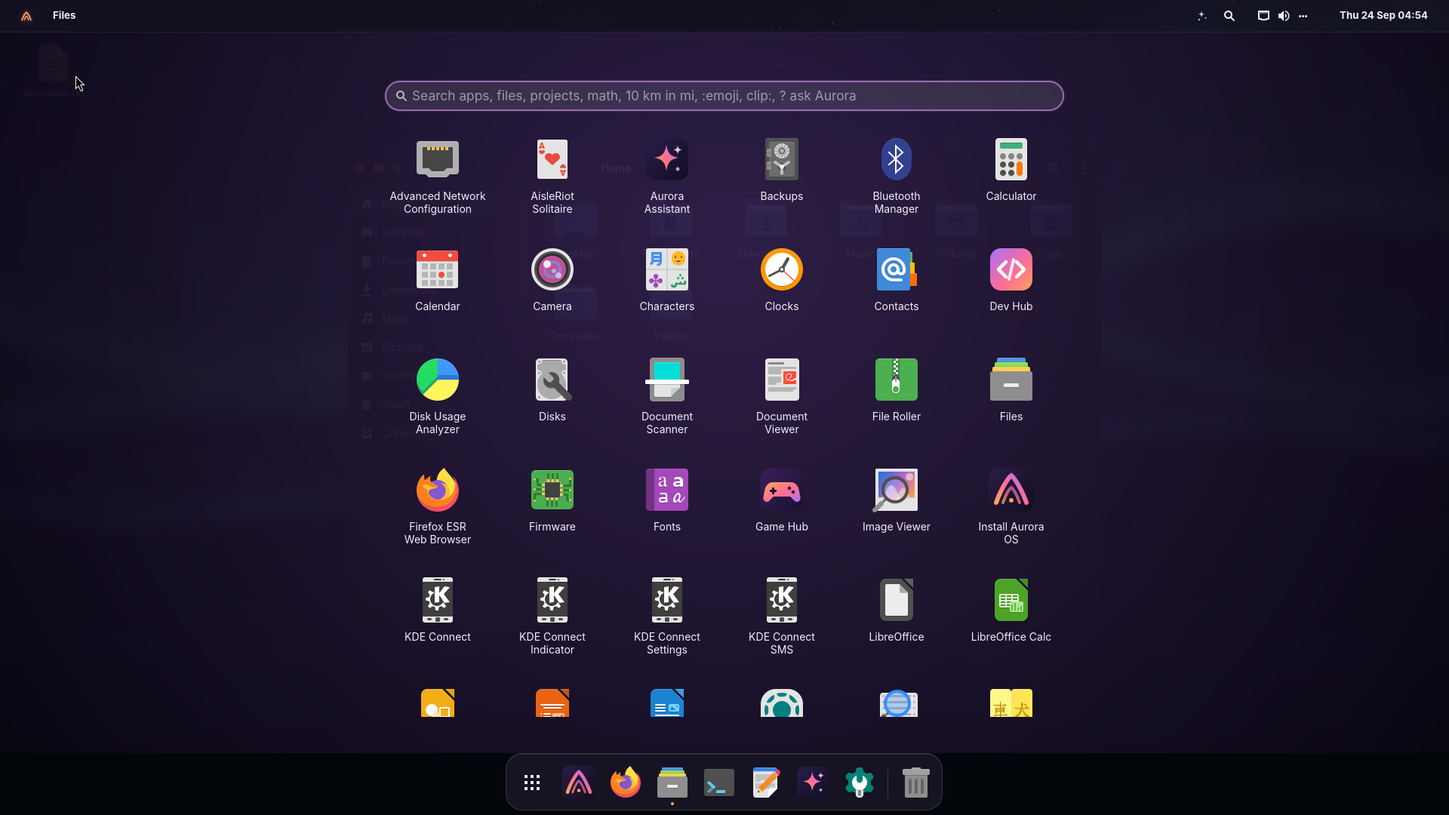
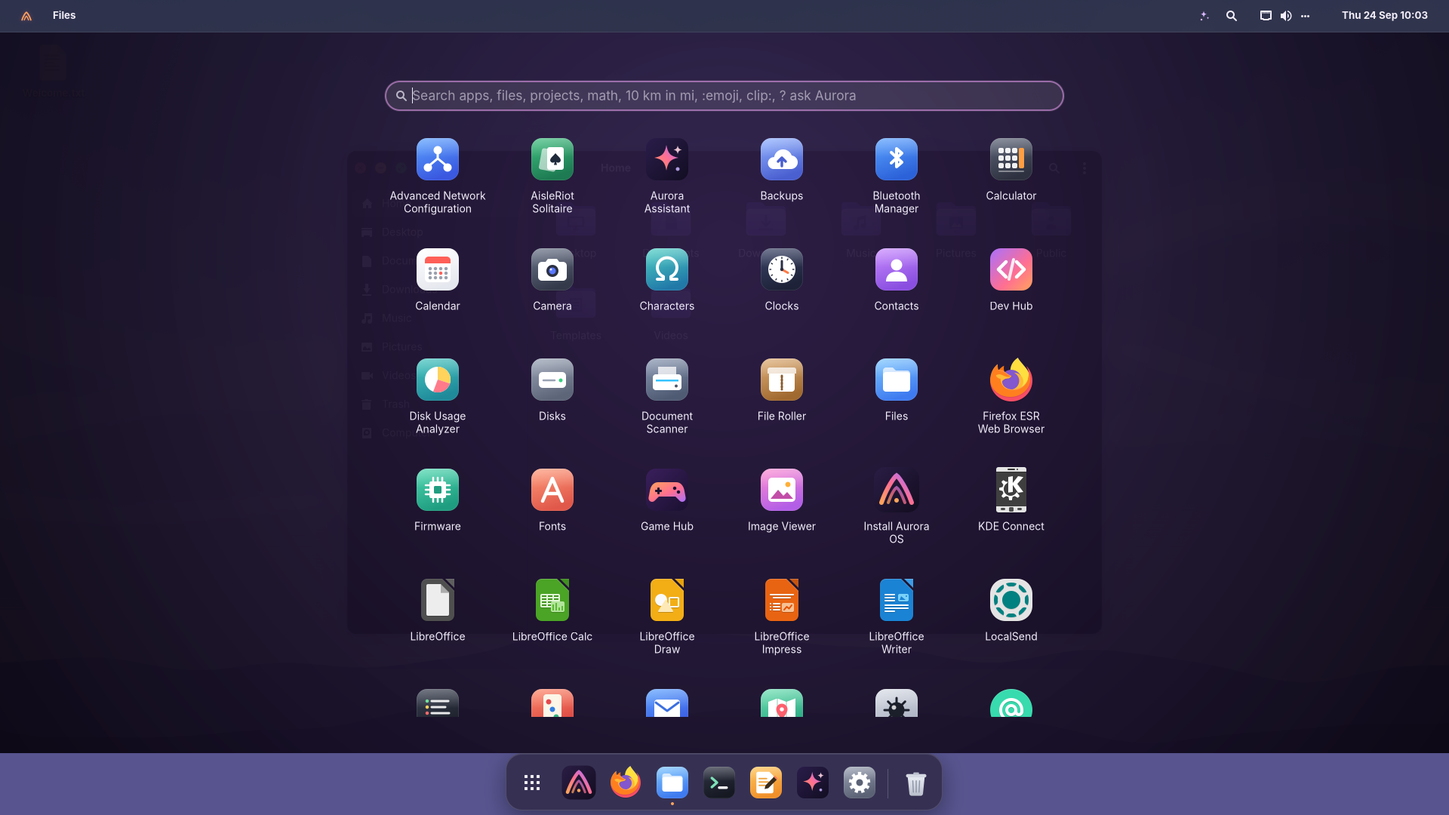
New screenshots from the final ISO, Quick Look entry, docs for the new settings and Dev Hub

diff --git a/docs/technical.html b/docs/technical.html
@@ -116,7 +116,7 @@
 <h3 id="where-it-appears">Where it appears</h3>
 <ul><li>Spotlight (<code>?</code> and, for longer questions, an "Ask Aurora" result); the Assistant (dock, top bar, &lt;kbd&gt;Super&lt;/kbd&gt;+&lt;kbd&gt;Shift&lt;/kbd&gt;+&lt;kbd&gt;Space&lt;/kbd&gt;); Writing Tools on the selection (it pastes the result back with <code>wl-copy</code> and a simulated &lt;kbd&gt;Ctrl&lt;/kbd&gt;+&lt;kbd&gt;V&lt;/kbd&gt;); Files; screenshots (the OCR text goes to the Assistant, so any model can help, not only vision models); notification summaries; <code>ask</code> and <code>why</code> in bash (a <code>PROMPT_COMMAND</code> hook remembers the last command and its exit status; <code>ask</code> runs nothing without a <code>y</code>).</li></ul>
 <h2 id="look-and-feel">Look and feel</h2>
-<ul><li><strong>GTK 4 / libadwaita apps</strong> follow the style and accent through the settings portal.</li><li><strong>GTK 3 and plain GTK 4 apps</strong> use <strong>adw-gtk3</strong> (libadwaita's look for GTK 3), which isn't in Debian. The build downloads its upstream release, pinned by SHA-256, and the shell switches it between light and dark and writes the accent color.</li><li><strong>Qt apps</strong> use <strong>QGnomePlatform</strong> with Adwaita-Qt, so they follow the same settings.</li><li><strong>Icons:</strong> Papirus. It covers the most apps with a consistent look, switches between light and dark with the style, and includes brand icons for developer tools.</li><li><strong>Fonts:</strong> Inter for the interface (highly legible on screens), JetBrains Mono for code, Noto for every script (CJK, Arabic, Devanagari, emoji) so 20 languages render correctly.</li><li><strong>Artwork is code:</strong> the logo, boot animation, wallpapers and GRUB theme are generated by <code>branding/</code> with cairo, numpy and Pillow. There are no opaque binaries, any resolution is possible, and everything is reproducible. Wallpapers are computed per pixel with tone mapping and dithering, so they show no banding.</li></ul>
+<ul><li><strong>GTK 4 / libadwaita apps</strong> follow the style and accent through the settings portal.</li><li><strong>GTK 3 and plain GTK 4 apps</strong> use <strong>adw-gtk3</strong> (libadwaita's look for GTK 3), which isn't in Debian. The build downloads its upstream release, pinned by SHA-256, and the shell switches it between light and dark and writes the accent color.</li><li><strong>Qt apps</strong> use <strong>QGnomePlatform</strong> with Adwaita-Qt, so they follow the same settings.</li><li><strong>Icons:</strong> Aurora's own theme (<code>Aurora</code> and <code>Aurora-Dark</code>), generated by <code>branding/icons/generate.py</code>: about 45 app icons (rounded squares with a gradient and a white glyph), folders with emblems, drives, and some 150 file types as pages with a glyph and a colored label. It inherits <strong>Papirus</strong> for symbolic icons (panel, sidebars, buttons) and for apps it doesn't draw, and leaves brand icons (Firefox, LibreOffice, Steam, VS Code…) to their apps: those are recognized by their logo.</li><li><strong>Window buttons:</strong> the round colored buttons always show their symbol (×, −, and two arrows to expand or restore) instead of hiding it until hover as on a Mac, softer until the pointer is over them. The same design is drawn for labwc's borders, GTK 4 and GTK 3 apps.</li><li><strong>Animations:</strong> labwc doesn't animate windows, so Aurora does it in GTK: a short fade and settle as a window opens, and items floating in, row by row, as a folder opens in Files (<code>gtk4-animations.css</code>, loaded only when Window animations are on; GTK skips it when animations are off system-wide).</li><li><strong>Rendering in virtual machines:</strong> without a real GPU the session uses wlroots' <strong>pixman</strong> renderer and GTK's <strong>cairo</strong> renderer (<code>aurora-render-env</code>). The software GL paths (llvmpipe) left stale regions on screen after partial redraws. Real GPUs keep hardware rendering.</li><li><strong>Fonts:</strong> Inter for the interface (highly legible on screens), JetBrains Mono for code, Noto for every script (CJK, Arabic, Devanagari, emoji) so 20 languages render correctly.</li><li><strong>Artwork is code:</strong> the logo, boot animation, wallpapers and GRUB theme are generated by <code>branding/</code> with cairo, numpy and Pillow. There are no opaque binaries, any resolution is possible, and everything is reproducible. Wallpapers are computed per pixel with tone mapping and dithering, so they show no banding.</li></ul>
 <h2 id="session-services">Session services</h2>
 <div class="table-wrap"><table><thead><tr><th>Area</th><th>Choice</th><th>Alternatives considered</th><th>Why</th></tr></thead><tbody><tr><td>Audio</td><td><strong>PipeWire + WirePlumber</strong> (+ rtkit)</td><td>PulseAudio, JACK</td><td>Low latency, Bluetooth codecs, screen-sharing video, compatible with PulseAudio and JACK apps. rtkit gives it realtime priority.</td></tr><tr><td>Network</td><td><strong>NetworkManager</strong> (+ connection editor, OpenVPN, OpenConnect, WireGuard)</td><td>iwd, ConnMan, systemd-networkd</td><td>Handles Wi-Fi, Ethernet, VPNs, hotspots and captive portals, and has a mature API (libnm) our shell uses. iwd as a Wi-Fi backend is faster to connect but less compatible with enterprise Wi-Fi, so it stays optional.</td></tr><tr><td>Bluetooth</td><td><strong>BlueZ</strong> (D-Bus) + <strong>Blueman</strong> for advanced settings</td><td>—</td><td>BlueZ is the Linux stack. Our Control Center and Settings talk to it directly.</td></tr><tr><td>Power</td><td><strong>UPower</strong> + <strong>power-profiles-daemon</strong> + <strong>thermald</strong></td><td>TLP, auto-cpufreq</td><td>power-profiles-daemon gives the three modes users understand, is what GNOME and KDE use, and doesn't conflict with firmware. TLP needs tuning and conflicts with it.</td></tr><tr><td>Idle / lock</td><td><strong>swayidle</strong> + <strong>wlopm</strong> + <strong>gtklock</strong></td><td>swaylock, hyprlock</td><td>gtklock shows a clock, date and styled password field (our CSS), unlike swaylock. hyprlock isn't in Debian.</td></tr><tr><td>Night light</td><td><strong>wlsunset</strong></td><td>gammastep, redshift</td><td>Small and Wayland-native. The shell runs it with sunrise and sunset for your time zone's coordinates, manual hours, or the same temperature day and night ("all the time").</td></tr><tr><td>Screenshots / recording</td><td><strong>grim</strong>, <strong>slurp</strong>, <strong>wl-clipboard</strong>, <strong>wf-recorder</strong></td><td>GNOME Screenshot, OBS</td><td>Standard wlroots tools, fast and scriptable. OBS is one click away in App Center.</td></tr><tr><td>Screenshot annotation</td><td><strong>swappy</strong></td><td>Satty, Flameshot, Ksnip</td><td>A small GTK 3 editor made for grim: arrows, text, highlighter, blur. Satty isn't in Debian. Flameshot and Ksnip are Qt apps with their own capture code that works poorly on wlroots.</td></tr><tr><td>Text from pictures (OCR)</td><td><strong>Tesseract 5</strong> + language data for all 18 boot-menu scripts</td><td>EasyOCR, PaddleOCR, online OCR</td><td>Offline, fast, in Debian. The neural-network alternatives need hundreds of MB of Python and models. English plus your language is used for recognition.</td></tr><tr><td>Phone integration</td><td><strong>KDE Connect</strong></td><td>GSConnect, Valent</td><td>Works with Android and iPhone, is in Debian, and shows up in our tray. GSConnect needs GNOME Shell. Valent (GTK) isn't in Debian yet. Its ports (1714–1764) stay closed until you switch it on in Settings → Sharing (a ufw profile plus one <code>aurora-admin</code> action).</td></tr><tr><td>Fingerprint</td><td><strong>fprintd</strong> + our PAM profile</td><td>Debian's default (off), Howdy (face)</td><td>A pam-auth-update profile (<code>/usr/share/pam-configs/aurora-fingerprint</code>) puts <code>pam_fprintd</code> in the stack for sudo, pkexec and polkit prompts, but skips it for greetd, gtklock, login and ssh. The login password is still needed at boot (it also unlocks the keyring, as macOS does after a restart), and the lock screen can't get stuck waiting for a finger.</td></tr><tr><td>Media keys / controls</td><td><strong>playerctl</strong> (MPRIS)</td><td>—</td><td>Controls any player: browsers, Spotify, Celluloid, Rhythmbox.</td></tr><tr><td>Portals</td><td><strong>xdg-desktop-portal-gtk</strong> + <strong>-wlr</strong></td><td>-gnome, -kde</td><td>GTK file choosers and settings; wlr for screenshots and screen sharing in browsers and video calls.</td></tr><tr><td>Admin prompts</td><td><strong>mate-polkit</strong> agent</td><td>polkit-gnome, lxpolkit, our own</td><td>A maintained, small GTK agent that works on Wayland.</td></tr><tr><td>Keyring</td><td><strong>gnome-keyring</strong> (unlocked by PAM at login) + Seahorse</td><td>KeePassXC's secret service</td><td>Every app that saves passwords (Wi-Fi, browsers, Git credential helpers) supports it.</td></tr><tr><td>Removable media</td><td><strong>udisks2 + GVfs</strong>, automounted by the shell</td><td>udiskie</td><td>Drives mount on insert, with a notification to open or eject.</td></tr><tr><td>Touchpad gestures</td><td><strong>libinput events</strong> read by the shell</td><td>libinput-gestures, fusuma, touchégg</td><td>labwc 0.8 has no gestures. The shell reads <code>libinput debug-events</code> (the user is in the <code>input</code> group) and turns 3- and 4-finger movements into actions. The alternatives aren't in Debian or need extra daemons. Workspace switches press labwc's own shortcut through <code>wtype</code>.</td></tr><tr><td>Nearby sharing</td><td><strong>LocalSend</strong> (pinned official <code>.deb</code>)</td><td>Warpinator, KDE Connect only, Snapdrop</td><td>Works with Android, iPhone, Windows, macOS and Linux with no account, over the local network. Warpinator is Linux-first. Its port (53317) opens only when you switch on "Let nearby devices find this computer".</td></tr><tr><td>Screen sharing</td><td><strong>wayvnc</strong> (RSA-AES encryption, password)</td><td>gnome-remote-desktop (RDP), RustDesk</td><td>wayvnc is the wlroots VNC server and is in Debian. gnome-remote-desktop needs GNOME's compositor, and RustDesk relays through servers. Port 5900 opens only while sharing.</td></tr><tr><td>Battery charge limit</td><td><strong>sysfs <code>charge_control_end_threshold</code></strong> + a boot and resume service</td><td>TLP, vendor tools</td><td>The kernel's standard interface works on many brands. TLP would conflict with power-profiles-daemon.</td></tr><tr><td>System Health</td><td><strong>Our own checks</strong> (UDisks2 SMART over D-Bus, apt, fwupd, systemd, nvidia-detect, UPower)</td><td>GNOME Disks alone, smartd e-mails</td><td>One page with every common problem and its fix, no admin password needed to look.</td></tr><tr><td>Autostart</td><td><strong>aurora-autostart</strong> (XDG autostart)</td><td>dex</td><td>labwc doesn't run XDG autostart entries. Our small runner honors OnlyShowIn, NotShowIn, Hidden and TryExec, and is unit-tested.</td></tr></tbody></table></div>
 <h2 id="apps">Apps</h2>

diff --git a/docs/_src/developers.body.html b/docs/_src/developers.body.html
@@ -31,7 +31,7 @@
         <span>Python 3 + pip, venv, pipx</span><span>Node.js + npm</span><span>Docker + Compose</span>
         <span>Podman</span><span>distrobox</span><span>neovim</span><span>tmux</span><span>ripgrep</span>
         <span>fd</span><span>fzf</span><span>bat</span><span>btop</span><span>jq</span><span>httpie</span>
-        <span>direnv</span><span>starship</span><span>shellcheck</span><span>portop</span>
+        <span>direnv</span><span>starship</span><span>zsh</span><span>shellcheck</span><span>portop</span><span>pkgtui</span>
         <span>JetBrains Mono</span><span>Fira Code</span>
       </div>
       <p><strong>Ptyxis</strong>, the terminal, has tabs, profiles and one-click shells inside your
@@ -39,18 +39,37 @@
         versions, command duration), <kbd>Ctrl</kbd>+<kbd>R</kbd> fuzzy history and sensible aliases.
         Docker starts on first use, so it costs nothing at boot.</p>
       <p><strong>portop</strong> shows what's using every port (process, systemd service or
-        Docker container) and stops it with one key.</p>
+        Docker container) and stops it with one key. <strong>pkgtui</strong> searches, installs,
+        removes and upgrades apt, Flatpak and Snap packages from one terminal UI.</p>
     </div>
   </div>
 
   <div class="feature reveal">
     <div class="feature-text">
       <h3>Dev Hub: your toolbox in one click</h3>
-      <p>VS Code, VSCodium, Zed, IntelliJ, PyCharm, Android Studio, Rust, Go, Java, uv, Bun, Deno,
-        GitHub CLI, kubectl, Terraform, AWS CLI, PostgreSQL, MariaDB, Redis, MongoDB, DBeaver,
-        Postman, and the AI coding agents Claude Code and Codex (sign in with your subscription),
-        plus Ollama for more local models. Each one installs from its <em>official</em> source, so you always get the newest
+      <p>About 90 tools in 17 categories, with a sidebar to jump between them and a search
+        box. Each one installs from its <em>official</em> source, so you always get the newest
         release, and you see every step in a terminal.</p>
+      <ul>
+        <li><strong>Editors, languages, cloud, databases:</strong> VS Code, VSCodium, Zed,
+          JetBrains IDEs, Android Studio, Rust, Go, Java, uv, Bun, Deno, GitHub CLI, kubectl,
+          Terraform, AWS CLI, PostgreSQL, MariaDB, Redis, MongoDB, DBeaver, Postman.</li>
+        <li><strong>AI assistants:</strong> Claude Code and Codex (sign in with your
+          subscription), Ollama for more local models.</li>
+        <li><strong>Shells &amp; terminals:</strong> Zsh with Oh My Zsh, fish, a one-click switch
+          of the default shell (and back to Bash), Starship, Zellij, kitty, Alacritty, WezTerm,
+          Tilix, Terminator, GNOME Console.</li>
+        <li><strong>Command line and version control:</strong> eza, yq, just, zoxide, Atuin,
+          delta, Glow, Meld, GitLab CLI, GitHub Desktop, GitKraken, Sublime Merge.</li>
+        <li><strong>Containers &amp; VMs:</strong> Podman Desktop, Virtual Machine Manager,
+          GNOME Boxes, kind, k9s, Helm, lazydocker.</li>
+        <li><strong>Web, mobile, debugging:</strong> Chrome, Chromium, mkcert, Caddy, nginx,
+          Android platform tools, Flutter, gdb/valgrind/strace/perf, hyperfine, Wireshark,
+          Bruno, Insomnia, Dev Toolbox.</li>
+        <li><strong>Data, games, hardware, design, security:</strong> JupyterLab, Miniforge, R,
+          Octave, Godot, Blender, LÖVE, Arduino IDE, PlatformIO, KiCad, serial consoles,
+          Inkscape, GIMP, draw.io, Obsidian, Zeal, Nmap, ZAP, Tailscale, Mosh.</li>
+      </ul>
     </div>
     <div class="feature-media">
       <img src="screenshots/devhub.png" alt="Dev Hub with one-click installers" data-zoom>

diff --git a/docs/developers.html b/docs/developers.html
@@ -54,7 +54,7 @@
         <span>Python 3 + pip, venv, pipx</span><span>Node.js + npm</span><span>Docker + Compose</span>
         <span>Podman</span><span>distrobox</span><span>neovim</span><span>tmux</span><span>ripgrep</span>
         <span>fd</span><span>fzf</span><span>bat</span><span>btop</span><span>jq</span><span>httpie</span>
-        <span>direnv</span><span>starship</span><span>shellcheck</span><span>portop</span>
+        <span>direnv</span><span>starship</span><span>zsh</span><span>shellcheck</span><span>portop</span><span>pkgtui</span>
         <span>JetBrains Mono</span><span>Fira Code</span>
       </div>
       <p><strong>Ptyxis</strong>, the terminal, has tabs, profiles and one-click shells inside your
@@ -62,18 +62,37 @@
         versions, command duration), <kbd>Ctrl</kbd>+<kbd>R</kbd> fuzzy history and sensible aliases.
         Docker starts on first use, so it costs nothing at boot.</p>
       <p><strong>portop</strong> shows what's using every port (process, systemd service or
-        Docker container) and stops it with one key.</p>
+        Docker container) and stops it with one key. <strong>pkgtui</strong> searches, installs,
+        removes and upgrades apt, Flatpak and Snap packages from one terminal UI.</p>
     </div>
   </div>
 
   <div class="feature reveal">
     <div class="feature-text">
       <h3>Dev Hub: your toolbox in one click</h3>
-      <p>VS Code, VSCodium, Zed, IntelliJ, PyCharm, Android Studio, Rust, Go, Java, uv, Bun, Deno,
-        GitHub CLI, kubectl, Terraform, AWS CLI, PostgreSQL, MariaDB, Redis, MongoDB, DBeaver,
-        Postman, and the AI coding agents Claude Code and Codex (sign in with your subscription),
-        plus Ollama for more local models. Each one installs from its <em>official</em> source, so you always get the newest
+      <p>About 90 tools in 17 categories, with a sidebar to jump between them and a search
+        box. Each one installs from its <em>official</em> source, so you always get the newest
         release, and you see every step in a terminal.</p>
+      <ul>
+        <li><strong>Editors, languages, cloud, databases:</strong> VS Code, VSCodium, Zed,
+          JetBrains IDEs, Android Studio, Rust, Go, Java, uv, Bun, Deno, GitHub CLI, kubectl,
+          Terraform, AWS CLI, PostgreSQL, MariaDB, Redis, MongoDB, DBeaver, Postman.</li>
+        <li><strong>AI assistants:</strong> Claude Code and Codex (sign in with your
+          subscription), Ollama for more local models.</li>
+        <li><strong>Shells &amp; terminals:</strong> Zsh with Oh My Zsh, fish, a one-click switch
+          of the default shell (and back to Bash), Starship, Zellij, kitty, Alacritty, WezTerm,
+          Tilix, Terminator, GNOME Console.</li>
+        <li><strong>Command line and version control:</strong> eza, yq, just, zoxide, Atuin,
+          delta, Glow, Meld, GitLab CLI, GitHub Desktop, GitKraken, Sublime Merge.</li>
+        <li><strong>Containers &amp; VMs:</strong> Podman Desktop, Virtual Machine Manager,
+          GNOME Boxes, kind, k9s, Helm, lazydocker.</li>
+        <li><strong>Web, mobile, debugging:</strong> Chrome, Chromium, mkcert, Caddy, nginx,
+          Android platform tools, Flutter, gdb/valgrind/strace/perf, hyperfine, Wireshark,
+          Bruno, Insomnia, Dev Toolbox.</li>
+        <li><strong>Data, games, hardware, design, security:</strong> JupyterLab, Miniforge, R,
+          Octave, Godot, Blender, LÖVE, Arduino IDE, PlatformIO, KiCad, serial consoles,
+          Inkscape, GIMP, draw.io, Obsidian, Zeal, Nmap, ZAP, Tailscale, Mosh.</li>
+      </ul>
     </div>
     <div class="feature-media">
       <img src="screenshots/devhub.png" alt="Dev Hub with one-click installers" data-zoom>

diff --git a/docs/_src/install.body.html b/docs/_src/install.body.html
@@ -110,6 +110,14 @@
     <div class="card reveal"><h4>📱 Your phone</h4><p>Install KDE Connect on the phone, switch on <em>Allow phones to connect</em> in Settings → Sharing and pair.</p></div>
     <div class="card reveal"><h4>🩺 System Health</h4><p>Settings → System Health checks disks, space, updates, firmware, drivers, services, the firewall, snapshots and the battery, and fixes each problem with a click.</p></div>
     <div class="card reveal"><h4>🔋 Battery care</h4><p>On supported laptops, Settings → Power → <em>Limit charging to 80%</em> keeps the battery healthy for years.</p></div>
+    <div class="card reveal"><h4>♿ Accessibility</h4><p>Settings → Accessibility: text and pointer size, zoom (<kbd>Super</kbd>+<kbd>Alt</kbd>+<kbd>8</kbd>, whole screen or a lens), a screen keyboard, high contrast, the Orca screen reader.</p></div>
+    <div class="card reveal"><h4>😴 Suspend, lid and power button</h4><p>Settings → Power: suspend after a while on battery or when plugged in, and choose what the power button and closing the lid do.</p></div>
+    <div class="card reveal"><h4>🔔 Quiet apps</h4><p>Settings → Notifications: turn off notifications app by app, and choose what happens when you plug in a USB drive.</p></div>
+    <div class="card reveal"><h4>✍ Accents and symbols</h4><p>Settings → Keyboard → <em>Compose key</em>: then <code>' e</code> types é, <code>o c</code> ©, <code>= e</code> €. <kbd>Super</kbd>+<kbd>.</kbd> opens the emoji picker.</p></div>
+  </div>
+  <div class="grid-2">
+    <figure class="layout-shot reveal"><img src="screenshots/settings-accessibility.png" alt="Settings → Accessibility" data-zoom></figure>
+    <figure class="layout-shot reveal"><img src="screenshots/settings-power.png" alt="Settings → Power" data-zoom></figure>
   </div>
   <figure class="layout-shot reveal"><img src="screenshots/settings-health.png" alt="Settings → System Health" data-zoom></figure>
 </section>

diff --git a/docs/install.html b/docs/install.html
@@ -133,6 +133,14 @@
     <div class="card reveal"><h4>📱 Your phone</h4><p>Install KDE Connect on the phone, switch on <em>Allow phones to connect</em> in Settings → Sharing and pair.</p></div>
     <div class="card reveal"><h4>🩺 System Health</h4><p>Settings → System Health checks disks, space, updates, firmware, drivers, services, the firewall, snapshots and the battery, and fixes each problem with a click.</p></div>
     <div class="card reveal"><h4>🔋 Battery care</h4><p>On supported laptops, Settings → Power → <em>Limit charging to 80%</em> keeps the battery healthy for years.</p></div>
+    <div class="card reveal"><h4>♿ Accessibility</h4><p>Settings → Accessibility: text and pointer size, zoom (<kbd>Super</kbd>+<kbd>Alt</kbd>+<kbd>8</kbd>, whole screen or a lens), a screen keyboard, high contrast, the Orca screen reader.</p></div>
+    <div class="card reveal"><h4>😴 Suspend, lid and power button</h4><p>Settings → Power: suspend after a while on battery or when plugged in, and choose what the power button and closing the lid do.</p></div>
+    <div class="card reveal"><h4>🔔 Quiet apps</h4><p>Settings → Notifications: turn off notifications app by app, and choose what happens when you plug in a USB drive.</p></div>
+    <div class="card reveal"><h4>✍ Accents and symbols</h4><p>Settings → Keyboard → <em>Compose key</em>: then <code>' e</code> types é, <code>o c</code> ©, <code>= e</code> €. <kbd>Super</kbd>+<kbd>.</kbd> opens the emoji picker.</p></div>
+  </div>
+  <div class="grid-2">
+    <figure class="layout-shot reveal"><img src="screenshots/settings-accessibility.png" alt="Settings → Accessibility" data-zoom></figure>
+    <figure class="layout-shot reveal"><img src="screenshots/settings-power.png" alt="Settings → Power" data-zoom></figure>
   </div>
   <figure class="layout-shot reveal"><img src="screenshots/settings-health.png" alt="Settings → System Health" data-zoom></figure>
 </section>

diff --git a/docs/index.html b/docs/index.html
@@ -294,6 +294,11 @@
     <div class="card reveal"><h4>☁ Weather and calendar</h4><p>Click the clock for your calendar, notifications and today's weather with the next hours. No account needed.</p></div>
     <div class="card reveal"><h4>👆 Fingerprint</h4><p>Set up your finger in Settings → Users and use it instead of the password for <code>sudo</code> and admin prompts.</p></div>
     <div class="card reveal"><h4>🎶 It sounds like Aurora</h4><p>A warm marimba motif when you log in and a gentle goodbye when you shut down. Both are original, and one switch turns them off.</p></div>
+    <div class="card reveal"><h4>🖼 Icons made for Aurora</h4><p>Apps, violet folders with an emblem for Home, Downloads or Music, and every file type as a page with its label (PDF, PY, ZIP, DOC…). Famous brands keep their own logos.</p></div>
+    <div class="card reveal"><h4>✨ Gentle animations</h4><p>Windows fade in as they open and files float in as a folder opens. One switch in Appearance turns them off.</p></div>
+    <div class="card reveal"><h4>♿ Accessible to everyone</h4><p>Zoom the whole screen or a lens with <kbd>Super</kbd>+<kbd>Alt</kbd>+<kbd>8</kbd>, a screen keyboard, larger text and pointer, high contrast, a screen reader, visible scrollbars.</p></div>
+    <div class="card reveal"><h4>⚙ Settings for every day</h4><p>Automatic suspend, power button and lid, battery percentage, sound balance, notifications per app, what to do with a USB drive, a Compose key, online accounts, what Spotlight shows.</p></div>
+    <div class="card reveal"><h4>🔘 Buttons that say what they do</h4><p>The round colored window buttons always show ×, − and arrows to expand or restore, not only on hover.</p></div>
     <div class="card reveal"><h4>♻ Safe to experiment</h4><p>Backups with Déjà Dup, compressed RAM swap, and Flatpak apps that never touch the system.</p></div>
   </div>
 </section>

diff --git a/docs/assets/site.css b/docs/assets/site.css
@@ -105,6 +105,8 @@ h3 { font-size: 1.5rem; margin: 0 0 10px; letter-spacing: -0.01em; }
 .feature.reverse { grid-template-columns: 7fr 5fr; }
 .feature.reverse .feature-text { order: 2; }
 .feature-text p { color: #d8d0e8; font-size: 1.05rem; }
+.feature-text ul { color: #d8d0e8; padding-left: 1.2rem; margin: .6rem 0 0; }
+.feature-text li { margin: .35rem 0; line-height: 1.5; }
 .feature-media img, .grid-2 img, .layout-shot img {
   border-radius: 14px; border: 1px solid var(--card-border);
   box-shadow: 0 20px 60px rgba(0,0,0,0.5); cursor: zoom-in;

diff --git a/desktop/aurora/devhub/recipes.py b/desktop/aurora/devhub/recipes.py
@@ -252,7 +252,7 @@ aws --version
     {"id": "starship", "cat": "shells", "name": "Starship", "icon": "starship",
      "fallback_icon": "utilities-terminal",
      "desc": N_("A fast, informative prompt for Bash, Zsh and fish."),
-     "check": "test -x ~/.local/bin/starship",
+     "check": "command -v starship",
      "script": "mkdir -p ~/.local/bin\n"
                "curl -sS https://starship.rs/install.sh | sh -s -- -y -b ~/.local/bin\n"
                "grep -q 'starship init bash' ~/.bashrc || "

diff --git a/README.md b/README.md
@@ -124,18 +124,36 @@ laptops, desktops and virtual machines, with BIOS or UEFI firmware.
 | **System tray** | StatusNotifierItem icons (Discord, Slack, Steam, Dropbox, Nextcloud…) in the top bar, with their menus. |
 | **Desktop icons** | Files in the Desktop folder appear on the background (top left, or top right). |
 | **Windows** | labwc compositor: snapping to halves, quarters and thirds (keyboard, or hold <kbd>Super</kbd> while dragging), 4 to 9 workspaces, window switcher, round colored buttons whose symbols are always visible (×, −, and arrows to expand or restore; or monochrome), server-side and GTK decorations styled alike. |
+| **Animations** | Windows fade and settle in as they open, and files float in, row by row, as a folder opens in Files. Switch them off in Settings → Appearance. |
+| **Aurora icons** | Aurora's own icon theme: apps, folders (violet, with an emblem for Home, Downloads, Music…), drives and file types (a page with a glyph and a label: PDF, PY, ZIP, DOC…), all drawn by code. Well-known brands (Firefox, LibreOffice, Steam, VS Code…) keep their own icons. |
 | **Login** | Graphical greeter on greetd, optional automatic login, lock screen, idle screen-off. |
 | **Boot** | Branded GRUB menu and an animated Plymouth splash (the logo draws itself). |
 | **One look everywhere** | libadwaita apps, GTK 3 apps (adw-gtk3), plain GTK 4 apps, Qt apps (QGnomePlatform), window decorations and icons all follow the light/dark style and accent color you pick. |
 
 ### Apps written for Aurora
-- **Settings**: Network (share Wi-Fi with a QR code), Bluetooth, Displays, Sound (session
-  sounds), Power (battery health, 80% charge limit), Appearance, Desktop & Dock,
-  Multitasking, Notifications, Apps (default and startup apps), Mouse & Touchpad (gestures),
-  Keyboard (repeat and custom shortcuts), Printers, Accessibility, Privacy & Security
-  (screen lock, file history, clipboard history, weather, firewall), Sharing (screen
-  sharing, nearby sharing, phone, SSH), **AI**, Users (fingerprint), Language & Region,
-  Date & Time, Software Updates (system snapshots), **System Health**, About.
+- **Settings**: everything Ubuntu's Settings has, and more:
+  - **Network** (share Wi-Fi with a QR code, VPNs), **Bluetooth**, **Displays** (resolution
+    and refresh rate, scale, rotation).
+  - **Sound**: devices, volume, left/right balance, over-amplification, session sounds.
+  - **Power**: screen blank, automatic suspend on battery and when plugged in, what the
+    power button and the lid do, power mode, battery percentage, battery health, 80%
+    charge limit.
+  - **Appearance**: style, accent, wallpaper, icons, pointer, fonts, Night Light,
+    animations and window animations. **Desktop & Dock** (layouts, top bar, dock, window
+    buttons, desktop icons, what Spotlight shows), **Multitasking**.
+  - **Notifications**: Do Not Disturb, notifications per app, what happens when a drive is
+    connected. **Apps**: default and startup apps.
+  - **Mouse & Touchpad** (gestures), **Keyboard** (repeat, Compose key for special
+    characters, custom shortcuts), **Printers**.
+  - **Accessibility**: high contrast, text size, pointer size, reduced animation, always
+    visible scrollbars, screen reader, **zoom** (whole screen or a lens,
+    <kbd>Super</kbd>+<kbd>Alt</kbd>+<kbd>8</kbd>), alert sounds, **screen keyboard**,
+    blinking cursor, double-click delay.
+  - **Privacy & Security** (screen lock, file history, clipboard history, weather,
+    firewall), **Sharing** (screen sharing, nearby sharing, phone, SSH), **AI**.
+  - **Users** (fingerprint, **online accounts** for Google, Microsoft, Nextcloud…),
+    Language & Region, Date & Time, Software Updates (system snapshots), **System
+    Health**, About.
 - **Aurora Assistant**: chat with the AI, with quick actions on copied text (summarize,
   improve, translate, explain), code blocks you can copy, answers read aloud, and
   **Writing Tools** for selected text anywhere (<kbd>Super</kbd>+<kbd>Shift</kbd>+<kbd>W</kbd>).
@@ -143,8 +161,13 @@ laptops, desktops and virtual machines, with BIOS or UEFI firmware.
   with progress, trash with restore, rename, new folder, "Open With", properties, open in
   terminal, **Quick Look** (<kbd>Space</kbd>), "Send to Nearby Device" and, with AI,
   "Summarize" and "Ask About This File".
-- **Dev Hub**: one-click installers for editors, languages, cloud tools, databases and AI
-  assistants (Claude Code, Codex, Ollama).
+- **Dev Hub**: about 90 one-click installers in 17 categories, with a category sidebar
+  and search: editors and IDEs, languages and runtimes, cloud and DevOps, databases and
+  API tools, AI assistants (Claude Code, Codex, Ollama), **shells and terminals** (Zsh,
+  Oh My Zsh, fish, default-shell switch, Starship, Zellij, kitty, Alacritty, WezTerm,
+  Tilix, Terminator, GNOME Console), command-line tools, version control, containers and
+  virtual machines, web, mobile, debugging and performance, data science, game
+  development, embedded and hardware, design and documentation, security and networking.
 - **Game Hub**: Steam, Heroic, Lutris, Bottles, ProtonUp-Qt, GameMode, MangoHud, Waydroid.
 - **Welcome**: first-run tour (light or dark, shortcuts, install).
 
@@ -152,8 +175,10 @@ laptops, desktops and virtual machines, with BIOS or UEFI firmware.
 - **Developers:** git, git-lfs, lazygit, delta, build-essential, gdb, cmake, shellcheck,
   Python (pip, venv, pipx), Node.js and npm, Docker (+ compose, buildx), Podman, distrobox,
   neovim, tmux, ripgrep, fd, fzf, bat, btop, jq, httpie, direnv, tldr, starship, zsh,
-  JetBrains Mono and Fira Code, and **[portop](https://github.com/padovanl/portop)** (see
-  which process holds a port and stop it with one key).
+  JetBrains Mono and Fira Code, **[portop](https://github.com/padovanl/portop)** (see
+  which process holds a port and stop it with one key) and
+  **[pkgtui](https://github.com/padovanl/pkgtui)** (search, install, remove and upgrade
+  apt, Flatpak and Snap packages from one terminal UI).
 - **Everyday** (the same set of apps Ubuntu ships): Firefox, Geary Mail, LibreOffice
   (Writer, Calc, Impress), Calendar, Contacts, Weather, Maps, Clocks, Calculator, Text
   Editor, Image Viewer, Document Viewer (PDF), Music (Rhythmbox), Videos (Celluloid, with
@@ -891,8 +916,24 @@ set up a feature, and every place it appears has its own switch.
   isn't in Debian. The build downloads its upstream release, pinned by SHA-256, and the
   shell switches it between light and dark and writes the accent color.
 - **Qt apps** use **QGnomePlatform** with Adwaita-Qt, so they follow the same settings.
-- **Icons:** Papirus. It covers the most apps with a consistent look, switches between
-  light and dark with the style, and includes brand icons for developer tools.
+- **Icons:** Aurora's own theme (`Aurora` and `Aurora-Dark`), generated by
+  `branding/icons/generate.py`: about 45 app icons (rounded squares with a gradient and a
+  white glyph), folders with emblems, drives, and some 150 file types as pages with a
+  glyph and a colored label. It inherits **Papirus** for symbolic icons (panel, sidebars,
+  buttons) and for apps it doesn't draw, and leaves brand icons (Firefox, LibreOffice,
+  Steam, VS Code…) to their apps: those are recognized by their logo.
+- **Window buttons:** the round colored buttons always show their symbol (×, −, and two
+  arrows to expand or restore) instead of hiding it until hover as on a Mac, softer until
+  the pointer is over them. The same design is drawn for labwc's borders, GTK 4 and
+  GTK 3 apps.
+- **Animations:** labwc doesn't animate windows, so Aurora does it in GTK: a short fade and
+  settle as a window opens, and items floating in, row by row, as a folder opens in Files
+  (`gtk4-animations.css`, loaded only when Window animations are on; GTK skips it when
+  animations are off system-wide).
+- **Rendering in virtual machines:** without a real GPU the session uses wlroots'
+  **pixman** renderer and GTK's **cairo** renderer (`aurora-render-env`). The software GL
+  paths (llvmpipe) left stale regions on screen after partial redraws. Real GPUs keep
+  hardware rendering.
 - **Fonts:** Inter for the interface (highly legible on screens), JetBrains Mono for code,
   Noto for every script (CJK, Arabic, Devanagari, emoji) so 20 languages render
   correctly.
@@ -1127,9 +1168,14 @@ future GitHub release workflow will run the same targets.
 - **Settings → Desktop & Dock**: layout presets and every panel, dock, window and launcher
   option.
 - **Settings → Appearance**: light, dark or automatic (sunset/sunrise), accent color,
-  background (dynamic or a picture, add your own), icons, pointer and size, animations,
-  fonts, scaling, anti-aliasing, hinting, Night Light and its schedule.
+  background (dynamic or a picture, add your own), icons (Aurora, Papirus or any installed
+  theme), pointer and size, animations, window animations, fonts, scaling, anti-aliasing,
+  hinting, Night Light and its schedule.
 - **Settings → Multitasking**: workspaces, hot corners, window snapping.
+- **Settings → Accessibility**: text and pointer size, zoom, screen keyboard, scrollbars,
+  screen reader, double-click delay.
+- **Dev Hub → Shells & Terminals**: install Zsh, fish or another terminal and switch the
+  default shell in one click.
 - **Config files** (safe to edit; Settings keeps your changes):
   - `~/.config/labwc/rc.xml`: compositor, keybindings, input devices (see the
     [labwc docs](https://labwc.github.io/labwc-config.5.html));
